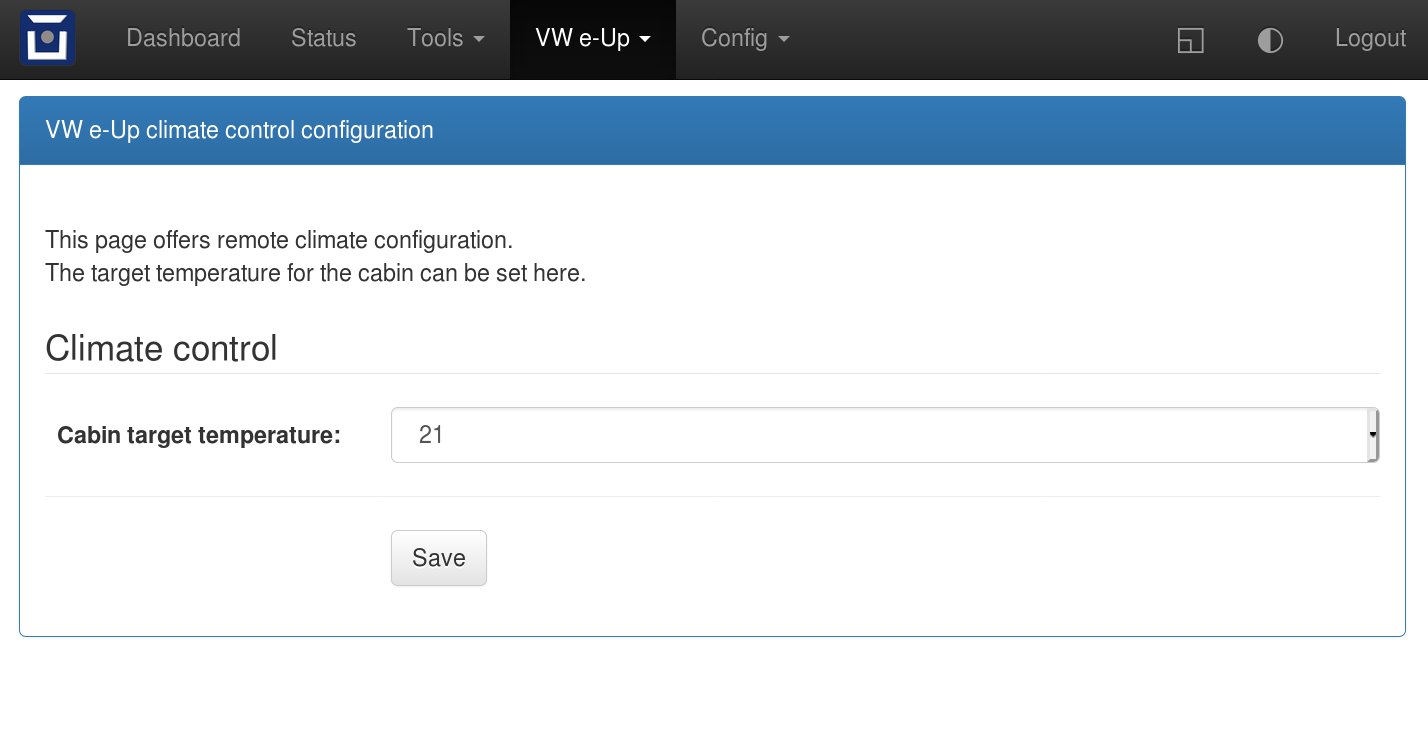
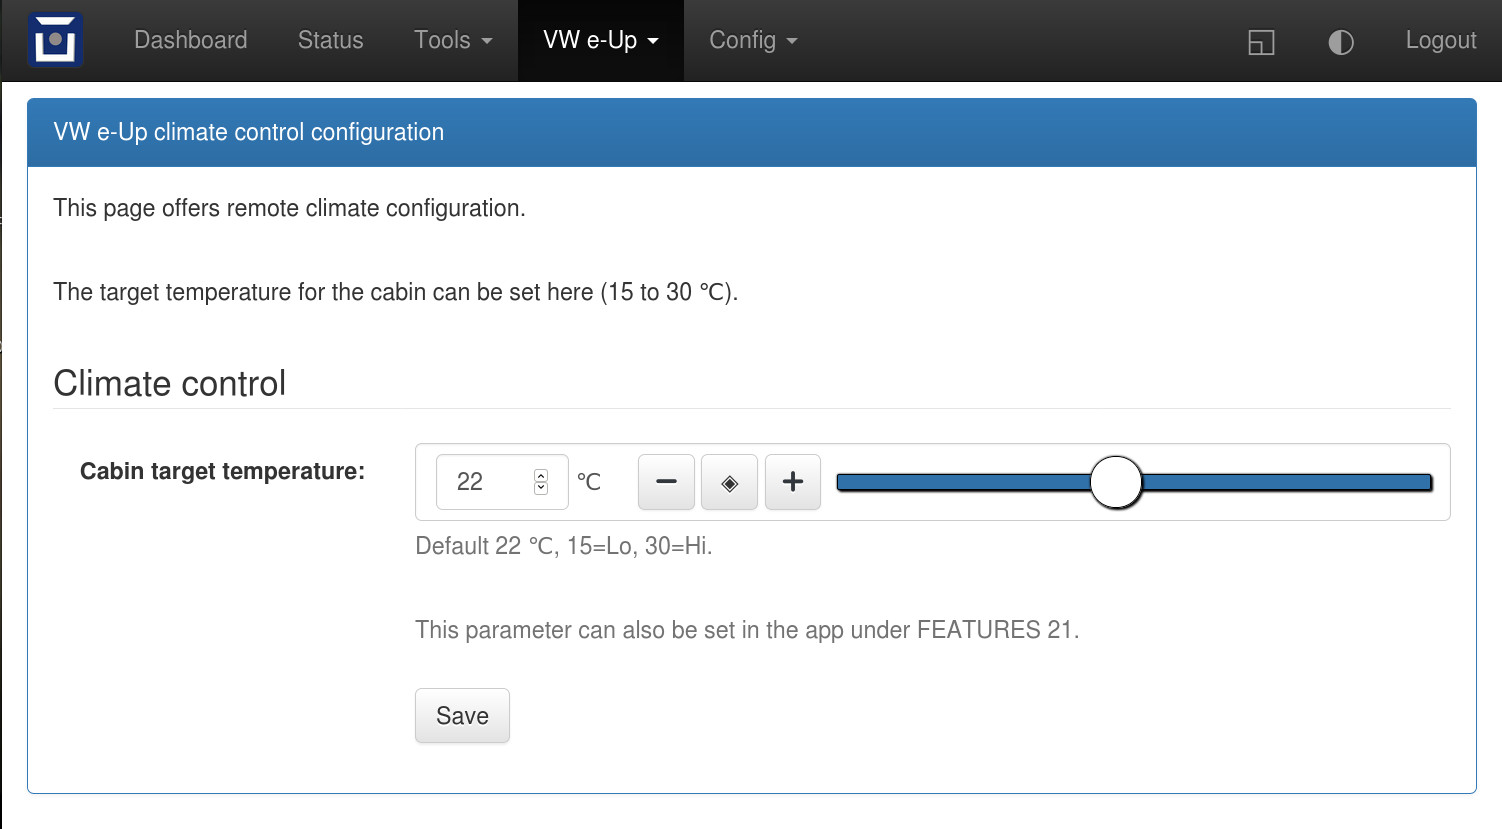
Pre-heating temp setting by slider in web ui Changed: vehicle/OVMS.V3/components/vehicle_vweup/docs/cc.png vehicle/OVMS.V3/components/vehicle_vweup/docs/index_t26.rst vehicle/OVMS.V3/components/vehicle_vweup/src/vweup_web.cpp

diff --git a/vehicle/OVMS.V3/components/vehicle_vweup/src/vweup_web.cpp b/vehicle/OVMS.V3/components/vehicle_vweup/src/vweup_web.cpp
@@ -255,31 +255,15 @@ void OvmsVehicleVWeUp::WebCfgClimate(PageEntry_t &p, PageContext_t &c)
   c.form_start(p.uri);
 
   c.print(
-    "<p>This page offers remote climate configuration.</p>"
-    "<p>The target temperature for the cabin can be set here (15 to 30 degrees Celcius).</p>");
+    "<p>This page offers remote climate configuration.</p><br>"
+    "<p>The target temperature for the cabin can be set here (15 to 30 &#8451;).</p><br>");
 
   c.fieldset_start("Climate control");
 
-  c.input_select_start("Cabin target temperature", "cc_temp");
-
-  c.input_select_option("15", "15", cc_temp == "15");
-  c.input_select_option("16", "16", cc_temp == "16");
-  c.input_select_option("17", "17", cc_temp == "17");
-  c.input_select_option("18", "18", cc_temp == "18");
-  c.input_select_option("19", "19", cc_temp == "19");
-  c.input_select_option("20", "20", cc_temp == "20");
-  c.input_select_option("21", "21", cc_temp == "21");
-  c.input_select_option("22", "22", cc_temp == "22");
-  c.input_select_option("23", "23", cc_temp == "23");
-  c.input_select_option("24", "24", cc_temp == "24");
-  c.input_select_option("25", "25", cc_temp == "25");
-  c.input_select_option("26", "26", cc_temp == "26");
-  c.input_select_option("27", "27", cc_temp == "27");
-  c.input_select_option("28", "28", cc_temp == "28");
-  c.input_select_option("29", "29", cc_temp == "29");
-  c.input_select_option("30", "30", cc_temp == "30");
-  c.input_select_end(
-    "<p>This parameter can also be set in the app under FEATURES 21.</p>");
+  c.input_slider("Cabin target temperature", "cc_temp", 3, "&#8451;",
+    -1, cc_temp.empty() ? 22 : atof(cc_temp.c_str()),
+    22, 15, 30, 1,
+    "<p>Default 22 &#8451;, 15=Lo, 30=Hi.</p><br><p>This parameter can also be set in the app under FEATURES 21.</p>");
 
   c.input_button("default", "Save");
   c.form_end();

diff --git a/vehicle/OVMS.V3/components/vehicle_vweup/docs/index_t26.rst b/vehicle/OVMS.V3/components/vehicle_vweup/docs/index_t26.rst
@@ -1,4 +1,5 @@
 .. _index_t26:
+
 ==============================
 VW e-Up via Comfort CAN (T26A)
 ==============================
@@ -35,7 +36,7 @@ Charge Interruption Alerts  Yes (per notification on the charging state)
 Charge Control              tba
 Lock/Unlock Vehicle         No
 Valet Mode Control          No
-Others                      Odometer, VIN, status of lock, plug, lights, doors, trunk and bonnet
+Others                      Odometer, trip, VIN, status of lock, plug, lights, doors, trunk and bonnet
 =========================== ==============
 
 
@@ -92,7 +93,7 @@ User notes
 * Close the carpet lid.
 * Reinstall the passenger seat.
 * Configure OVMS as described in the OVMS user manual.
-* Configure 'Model year' and 'Can write access' under VW e-Up (Komfort CAN) -> Features.
+* Configure 'Model year', 'Can write access' and 'Connection type' under VW e-Up -> Features.
 * 'Model year' and 'Can write access' can also be set from within the app (FEATURES 20 and 15).
 * Register and connect OVMS to a server (as guided within the OVMS setup).
 * Turn the ignition in the car on and off to receive initial values (also needed after updates).
@@ -107,11 +108,11 @@ User notes
 Climate control
 ---------------
 
-Climate control works, as long as write access to the comfort can has been enabled in the app or in the OVMS webinterface (VW e-Up (Komfort CAN) -> Features).
+Climate control works, as long as write access to the comfort can has been enabled in the app or in the OVMS webinterface (VW e-Up -> Features).
 
 To turn on or off the AC from within the Android app just press the "A/C" button. Within the iOS app press "Homelink 1" for AC on and "Homelink 2" for AC off.
 
-Once the AC is turned on by the app there will be a delay of about 15 seconds untill the AC actually starts in the car. Further 10 seconds all communication from the app to the car is blocked.
+Once the AC is turned on by the app there will be a delay of about 17 seconds untill the AC actually starts in the car. Further 10 seconds all communication from the app to the car is blocked.
 
 The communication from the app to the car is also blocked for 10 seconds after the "AC off" command from the app to the car. There is no delay between the "AC off" signal of the app and the actually turning off in the car.
 
@@ -160,13 +161,11 @@ ID	    Conversion	      Unit    Function
 Development notes
 -----------------
 
-Under this vehicle component we use the original T26A approach, which can write to the comfort can and is able to manage the climate control of the car.
-
-Because T26A does not use the OBD socket and has limited access to system information an OBD approach is implemented as a different vehicle component (VWUP.OBD). That component is not covered here.
+Under this vehicle component part we use the original T26A approach, which can write to the comfort can and is able to manage the climate control of the car.
 
 You will normally use the OVMS binaries provided i.e. `here <https://dexters-web.de/>`_. 
 
-The VWUP.T26 component with working climate control is publicly available within the OVMS binary version 3.2.15 'edge' and upwards ('main', 'eap' and 'edge'). The Android app version has to be 3.17.1 or higher to have access to the climate control functions for this vehicle component.
+The VWUP T26A component part with working climate control is publicly available within the OVMS binary version 3.2.15 'edge' and upwards ('main', 'eap' and 'edge'). The Android app version has to be 3.17.1 or higher to have access to the climate control functions for this vehicle component.
 
 If you want to compile the binary yourself you will need to read the OVMS development documentation on how to set up the tool chain, check out the repository and the submodules and copy the file
 
@@ -181,7 +180,7 @@ sdkconfig
 Vehicle log files
 --------------------------
 
-To be able to implement the VWUP.T26 vehicle component for OVMS the CAN logging of the VW e-UP provided by 'sharkcow' was of tremendous help.
+To be able to implement the VWUP vehicle component for OVMS the CAN logging of the VW e-UP provided by 'sharkcow' was of tremendous help.
 
 The implementation of this vehicle component could not have been done without these great files.
 
